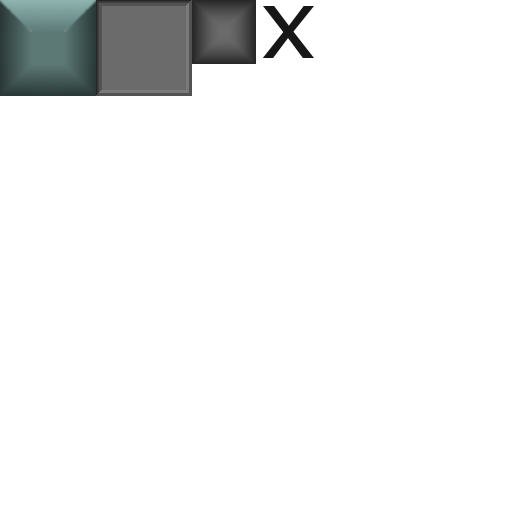
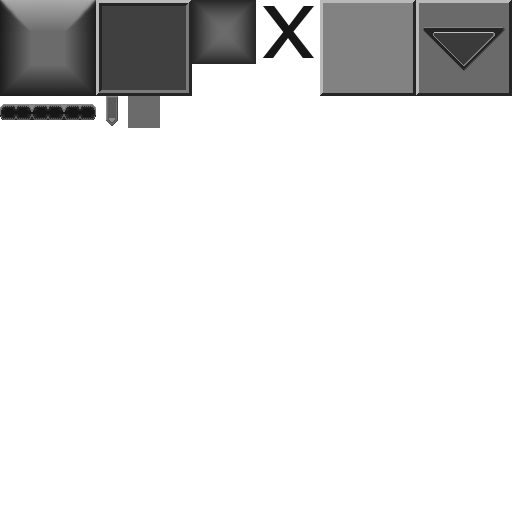
Updating menu graphics

Changed region(s): [[0.0, 0.0, 0.375, 0.25], [0.625, 0.0, 1.0, 0.1875]]

diff --git a/Menu/MenuButton.cs b/Menu/MenuButton.cs
@@ -20,10 +20,12 @@ namespace EngineeringCorpsCS
         public delegate void ButtonAction(string tag);
         ButtonAction action;
         ButtonState buttonState;
-        Color buttonHeld = Color.Green;
-        Color buttonNormal = Color.Yellow;
-        Color buttonHover = Color.Magenta;
-        Color buttonColor = Color.Yellow;
+        VertexArray buttonGraphic;
+        RectangleShape highlight;
+        Color buttonHeld = new Color(0, 64, 0, 128);
+        Color buttonNormal = new Color(0,0,0,0);
+        Color buttonHover = new Color(0, 128, 0, 128);
+        Color buttonColor = new Color(0, 0, 0, 128);
 
         public string tag { get; set; } = "";
         public MenuButton(Vector2f componentSize, ButtonAction action)
@@ -32,13 +34,19 @@ namespace EngineeringCorpsCS
             this.action = action;
             this.buttonState = ButtonState.Normal;
             this.collisionBox = new BoundingBox(this.size);
+            buttonGraphic = CreateMenuGraphicArrayWithBorder(new FloatRect(320, 0, 96, 96), 20);
+            highlight = new RectangleShape(componentSize);
         }
         override public void Draw(RenderTexture gui, Vector2f origin, RenderStates guiState)
         {
-            RectangleShape test = new RectangleShape(size);
-            test.Position = origin + position;
-            test.FillColor = buttonColor;
-            gui.Draw(test);
+            Transform t = new Transform(1, 0, 0, 0, 1, 0, 0, 0, 1);
+            t.Translate(origin + position);
+            Transform original = guiState.Transform;
+            guiState.Transform = t;
+            gui.Draw(buttonGraphic, guiState);
+            highlight.FillColor = buttonColor;
+            highlight.Position = origin + position;
+            gui.Draw(highlight);
             base.Draw(gui, origin, guiState);
         }
         override public void HandleInput(InputManager input)

diff --git a/Menu/MenuListBox.cs b/Menu/MenuListBox.cs
@@ -50,11 +50,13 @@ namespace EngineeringCorpsCS
             selectedText.SetRelativePosition(new Vector2f(0, -2));
             selectedValue = initialValue;
             selectedText.SetText(listHeaders[initialValue]);
+            selectedText.SetTextPosition("left", "center");
             for (int i = 0; i < listHeaders.Length; i++)
             {
                 texts[i] = new MenuText(this.size, font, listHeaders[i], charSize, 0.6f);
                 AttachComponent(texts[i]);
                 texts[i].SetText(listHeaders[i]);
+                texts[i].SetTextPosition("left", "center");
                 texts[i].SetRelativePosition(new Vector2f(0, (i + 1) * lineSpacing - 2));
             }
             dropdownBox = new BoundingBox(new Vector2f(size.X, lineSpacing));

diff --git a/Menu/MenuField.cs b/Menu/MenuField.cs
@@ -31,6 +31,8 @@ namespace EngineeringCorpsCS
         {
             Initialize(componentSize);
             textField = new MenuText(new Vector2f(size.X, size.Y), font, "", Convert.ToUInt32(size.Y - 4), size.Y);
+            textField.SetTextPosition("left", "center");
+            textField.SetPivots("center", "center", "inside", 2);
             this.parseField = parseField;
             fieldState = FieldState.Normal;
             collisionBox = new BoundingBox(size);
